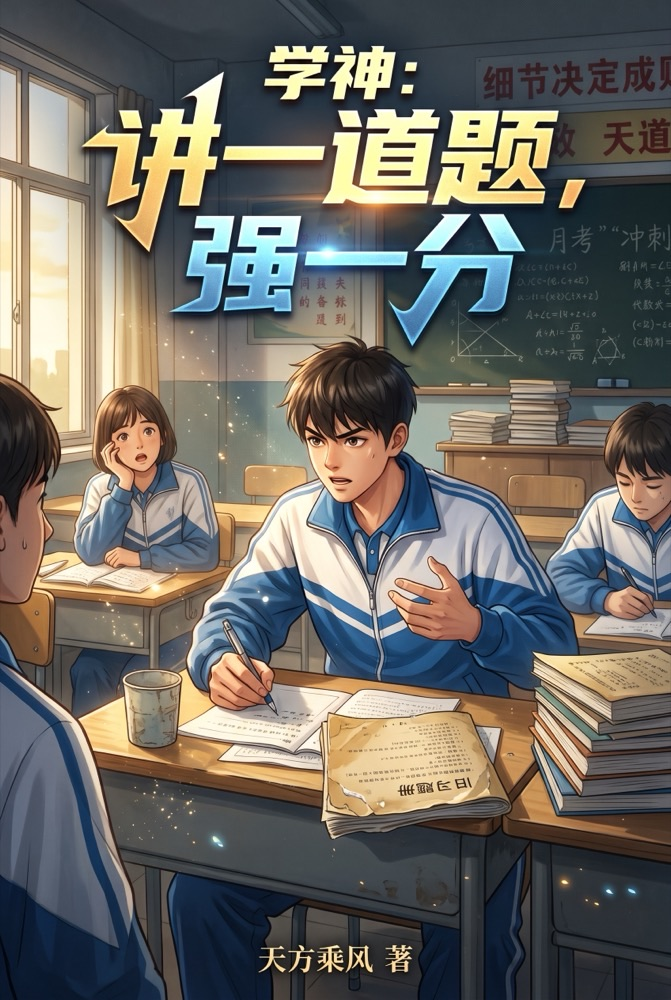
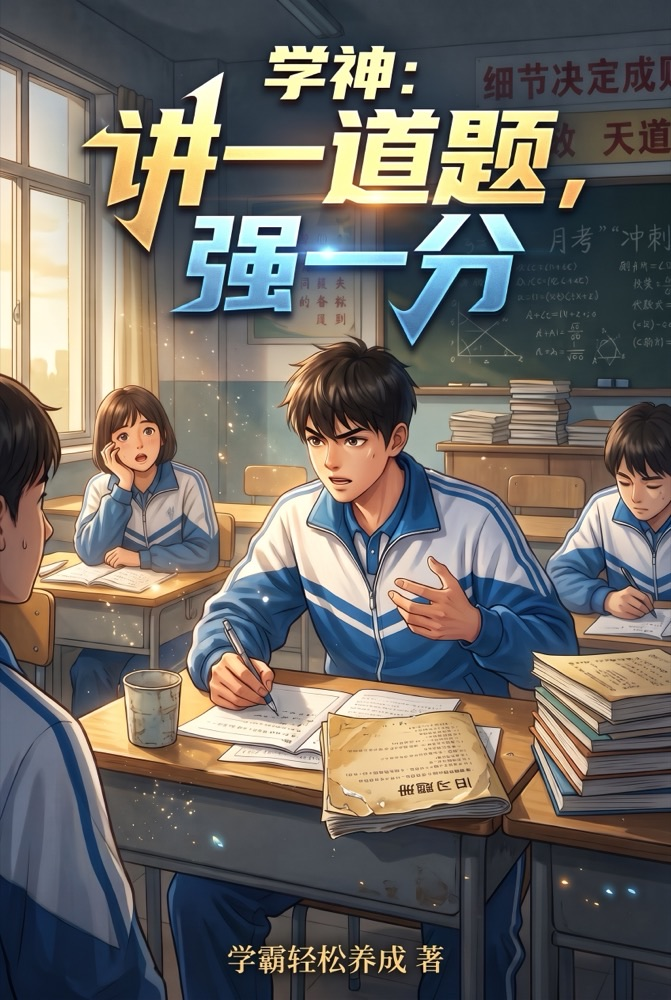
feat(novel): 换成署名「学霸轻松养成」的新封面；封面 URL 加 ?v=2 破缓存

diff --git a/novel/index.html b/novel/index.html
@@ -44,7 +44,7 @@
   <h1>小说连载</h1>
   <p class="lead">全本免费，每日 5 章。读完想做题的，旁边就是知识图谱和整卷测试。</p>
   <div class="book">
-    <div class="cover"><img src="../assets/novel-cover.jpg" alt="学神：讲一道题，强一分 封面"></div>
+    <div class="cover"><img src="../assets/novel-cover.jpg?v=2" alt="学神：讲一道题，强一分 封面"></div>
     <div class="info">
       <h2>学神：讲一道题，强一分</h2>
       <div class="meta">作者：学霸轻松养成过程 ｜ 已发布 100 章 / 预计 4000 章 ｜ 每日 5 章 ｜ 全本免费</div>

diff --git a/scripts/build_novel_pages.py b/scripts/build_novel_pages.py
@@ -303,7 +303,7 @@ SHELF_TMPL = """<!DOCTYPE html>
   <h1>小说连载</h1>
   <p class="lead">全本免费，每日 5 章。读完想做题的，旁边就是知识图谱和整卷测试。</p>
   <div class="book">
-    <div class="cover"><img src="{root}assets/novel-cover.jpg" alt="{book} 封面"></div>
+    <div class="cover"><img src="{root}assets/novel-cover.jpg?v=2" alt="{book} 封面"></div>
     <div class="info">
       <h2>{book}</h2>
       <div class="meta">作者：{author} ｜ 已发布 {total} 章 / 预计 {plan} 章 ｜ 每日 5 章 ｜ 全本免费</div>
